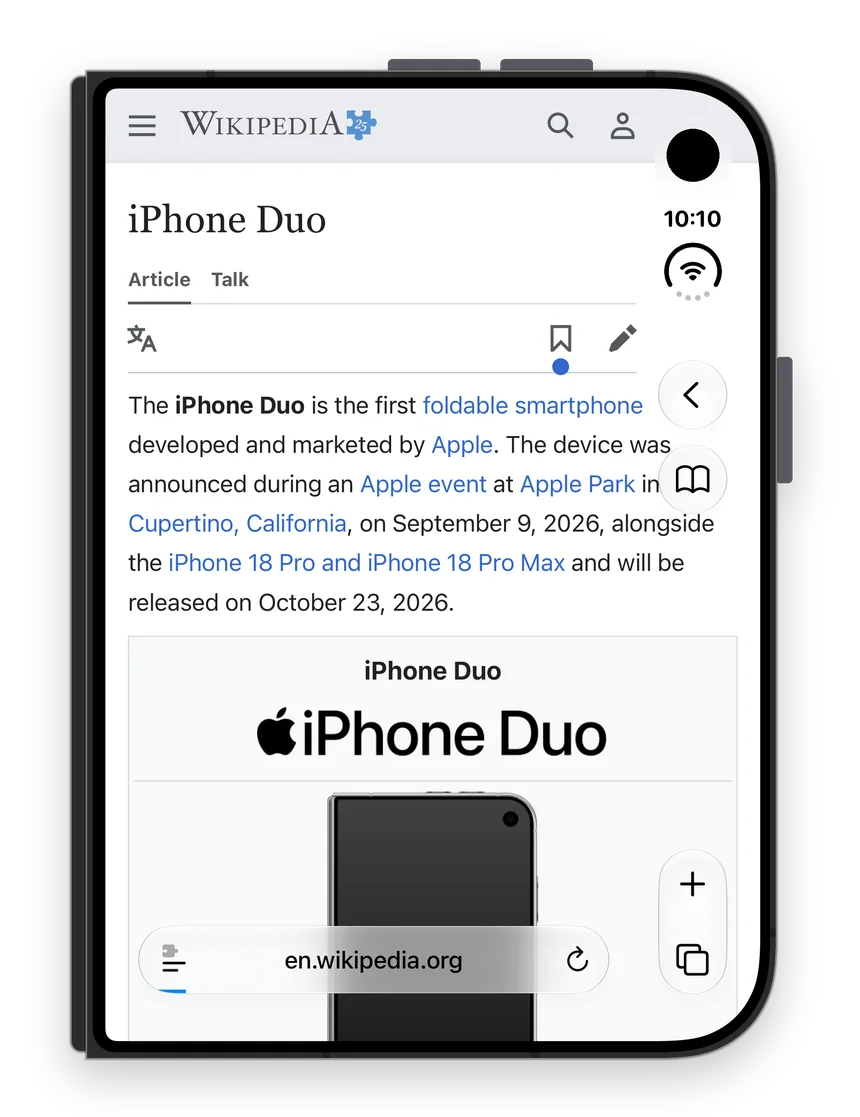
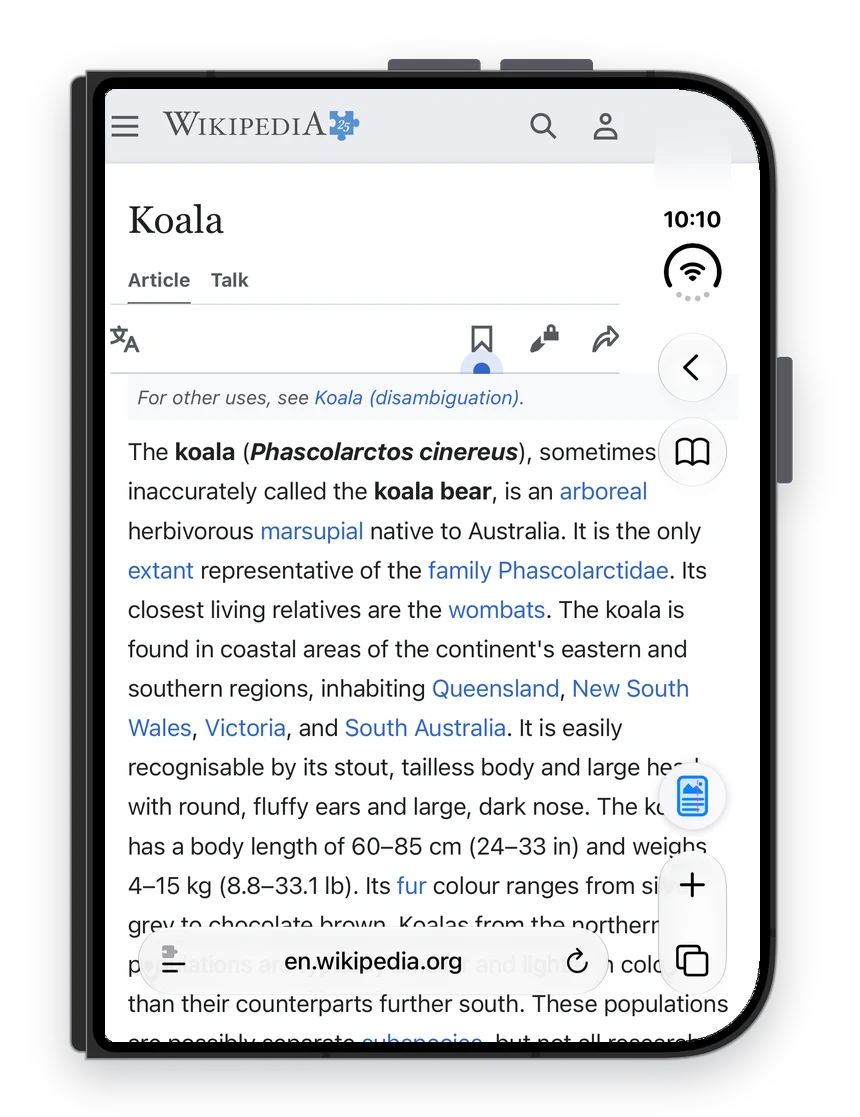
Pictures for 1.0.5: the Widen button above New Tab, the touch-and-hold menu, and a Koala article in place of the iPhone Duo one

diff --git a/index.html b/index.html
@@ -65,7 +65,7 @@
         <div class="slide" data-site="NASA">
           <div class="flip-pics">
             <img class="pic-before" src="img/moon-before.webp?v=10" width="860" height="1117" alt="NASA's Moon page on iPhone Duo's outer display, without Widen: a white column runs down beside Safari's buttons">
-            <img class="pic-after" src="img/moon-after.webp?v=11" width="860" height="1117" alt="The same page with Widen: the Moon runs right under Safari's buttons">
+            <img class="pic-after" src="img/moon-after.webp?v=12" width="860" height="1117" alt="The same page with Widen: the Moon runs right under Safari's buttons">
           </div>
           <p class="slide-cap"><b>NASA</b>
             <span class="cap-before">A white column runs down beside the buttons.</span>
@@ -73,8 +73,8 @@
         </div>
         <div class="slide" data-site="Wikipedia">
           <div class="flip-pics">
-            <img class="pic-before" src="img/before.webp?v=8" width="860" height="1117" alt="Wikipedia's iPhone Duo article in Safari on the closed iPhone Duo, without Widen: the page stops well short of Safari's buttons, leaving an empty band">
-            <img class="pic-after" src="img/after.webp?v=8" width="860" height="1117" alt="The same article with Widen in + Text mode: the article text and info box run the full width of the display">
+            <img class="pic-before" src="img/before.webp?v=9" width="860" height="1117" alt="Wikipedia's Koala article in Safari on the closed iPhone Duo, without Widen: the page stops well short of Safari's buttons, leaving an empty band">
+            <img class="pic-after" src="img/after.webp?v=9" width="860" height="1117" alt="The same article with Widen in + Text mode: the article text runs the full width of the display">
           </div>
           <p class="slide-cap"><b>Wikipedia</b>
             <span class="cap-before">The page stops short; the band by the buttons is empty.</span>
@@ -101,7 +101,7 @@
         <div class="slide" data-site="US weather radar">
           <div class="flip-pics">
             <img class="pic-before" src="img/radar-before.webp?v=8" width="860" height="1117" loading="lazy" alt="The US National Weather Service radar map on the closed iPhone Duo, without Widen: the map ends at Safari's buttons, cutting off the East Coast">
-            <img class="pic-after" src="img/radar-after.webp?v=8" width="860" height="1117" loading="lazy" alt="The same radar map with Widen: it fills the whole display under Safari's buttons, showing the East Coast">
+            <img class="pic-after" src="img/radar-after.webp?v=9" width="860" height="1117" loading="lazy" alt="The same radar map with Widen: it fills the whole display under Safari's buttons, showing the East Coast">
           </div>
           <p class="slide-cap"><b>US weather radar</b>
             <span class="cap-before">The map ends at the buttons; the East Coast is cut off.</span>
@@ -175,7 +175,7 @@
     <span class="kicker">The settings</span>
     <h2>Everything in one panel, right in Safari</h2>
     <p class="intro">Choose <strong>Widen</strong> from Safari&rsquo;s page menu and every option is there, on the page you&rsquo;re looking at. No digging through the Settings app.</p>
-    <div class="panel-pair"><figure class="panel-one"><img src="img/panel.webp?v=12" width="560" height="727" loading="lazy" alt="Widen's panel in Safari: Default for all sites with Off, Backgrounds, + Pictures and + Text; Portrait, Landscape or Both; banner hiding and the Widen button switched on"><figcaption>The default for every site, when <em>Widen</em> works, banner hiding, the site you&rsquo;re on, and your exceptions: one screen.</figcaption></figure><figure class="panel-one"><img src="img/menu-hold.webp?v=1" width="560" height="727" loading="lazy" alt="Touching and holding the Widen button beside Safari's buttons opens a menu: Off, Backgrounds, + Pictures, + Text and Settings"><figcaption>Or touch and hold the <em>Widen</em> button for every choice on the site you&rsquo;re on.</figcaption></figure></div>
+    <div class="panel-pair"><figure class="panel-one"><img src="img/panel.webp?v=12" width="560" height="727" loading="lazy" alt="Widen's panel in Safari: Default for all sites with Off, Backgrounds, + Pictures and + Text; Portrait, Landscape or Both; banner hiding and the Widen button switched on"><figcaption>The default for every site, when <em>Widen</em> works, banner hiding, the site you&rsquo;re on, and your exceptions: one screen.</figcaption></figure><figure class="panel-one"><img src="img/menu-hold.webp?v=2" width="560" height="727" loading="lazy" alt="Touching and holding the Widen button beside Safari's buttons opens a menu: Off, Backgrounds, + Pictures, + Text and Settings"><figcaption>Or touch and hold the <em>Widen</em> button for every choice on the site you&rsquo;re on.</figcaption></figure></div>
   </div>
 </section>
 
